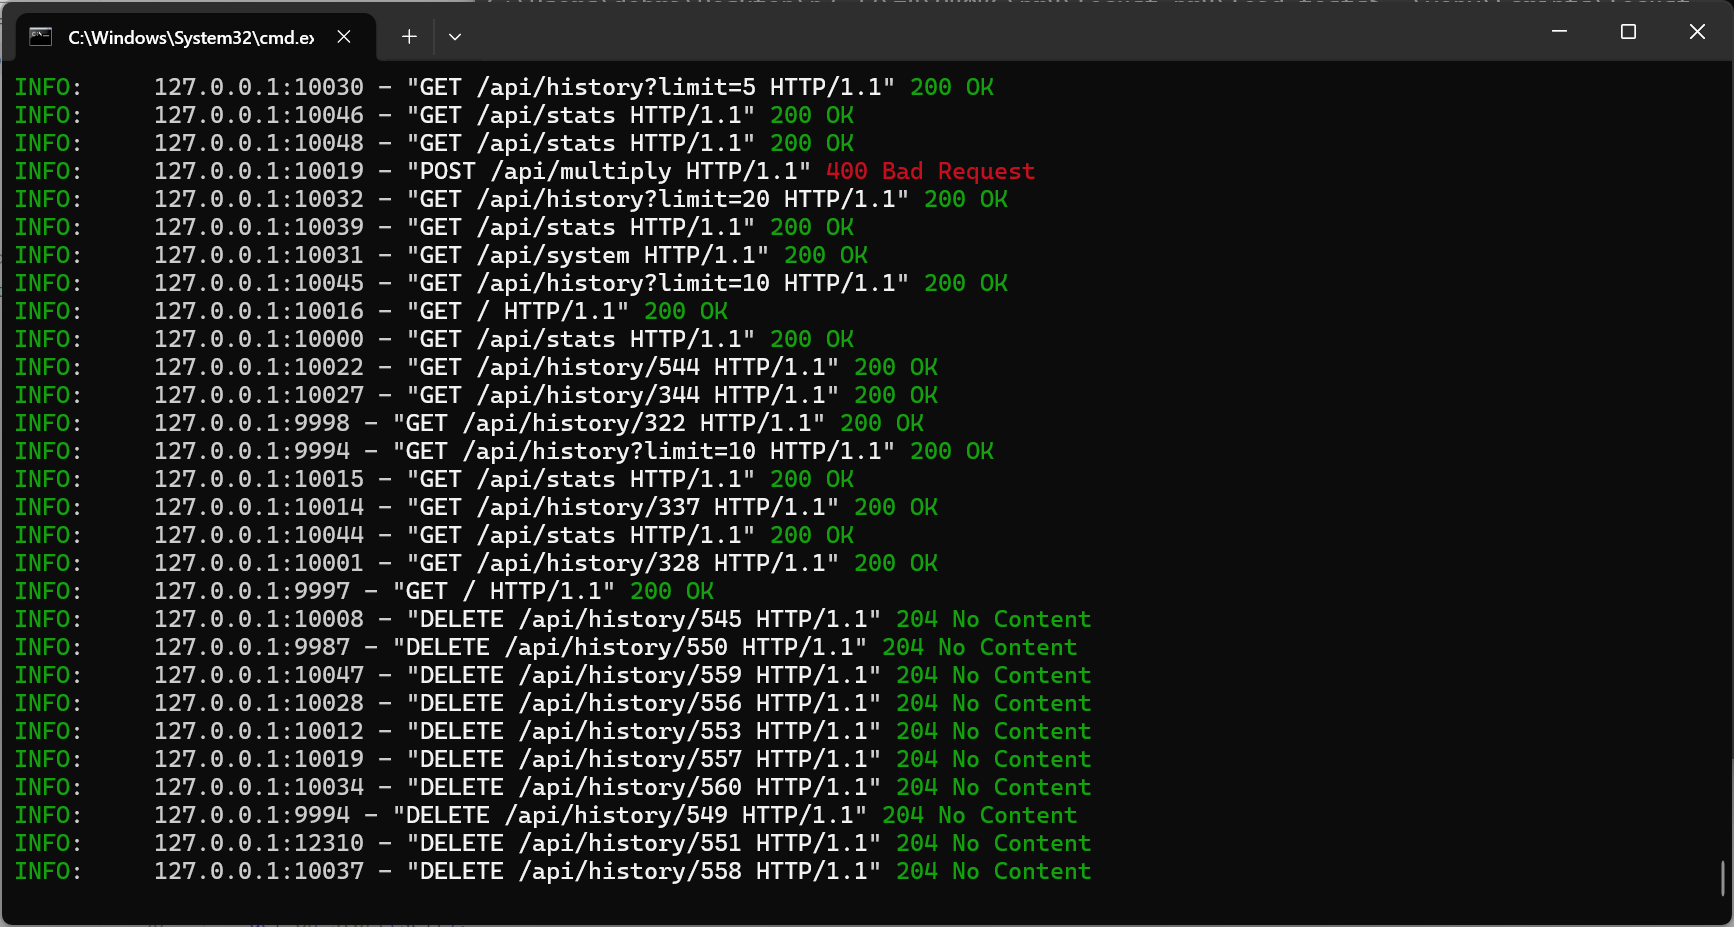
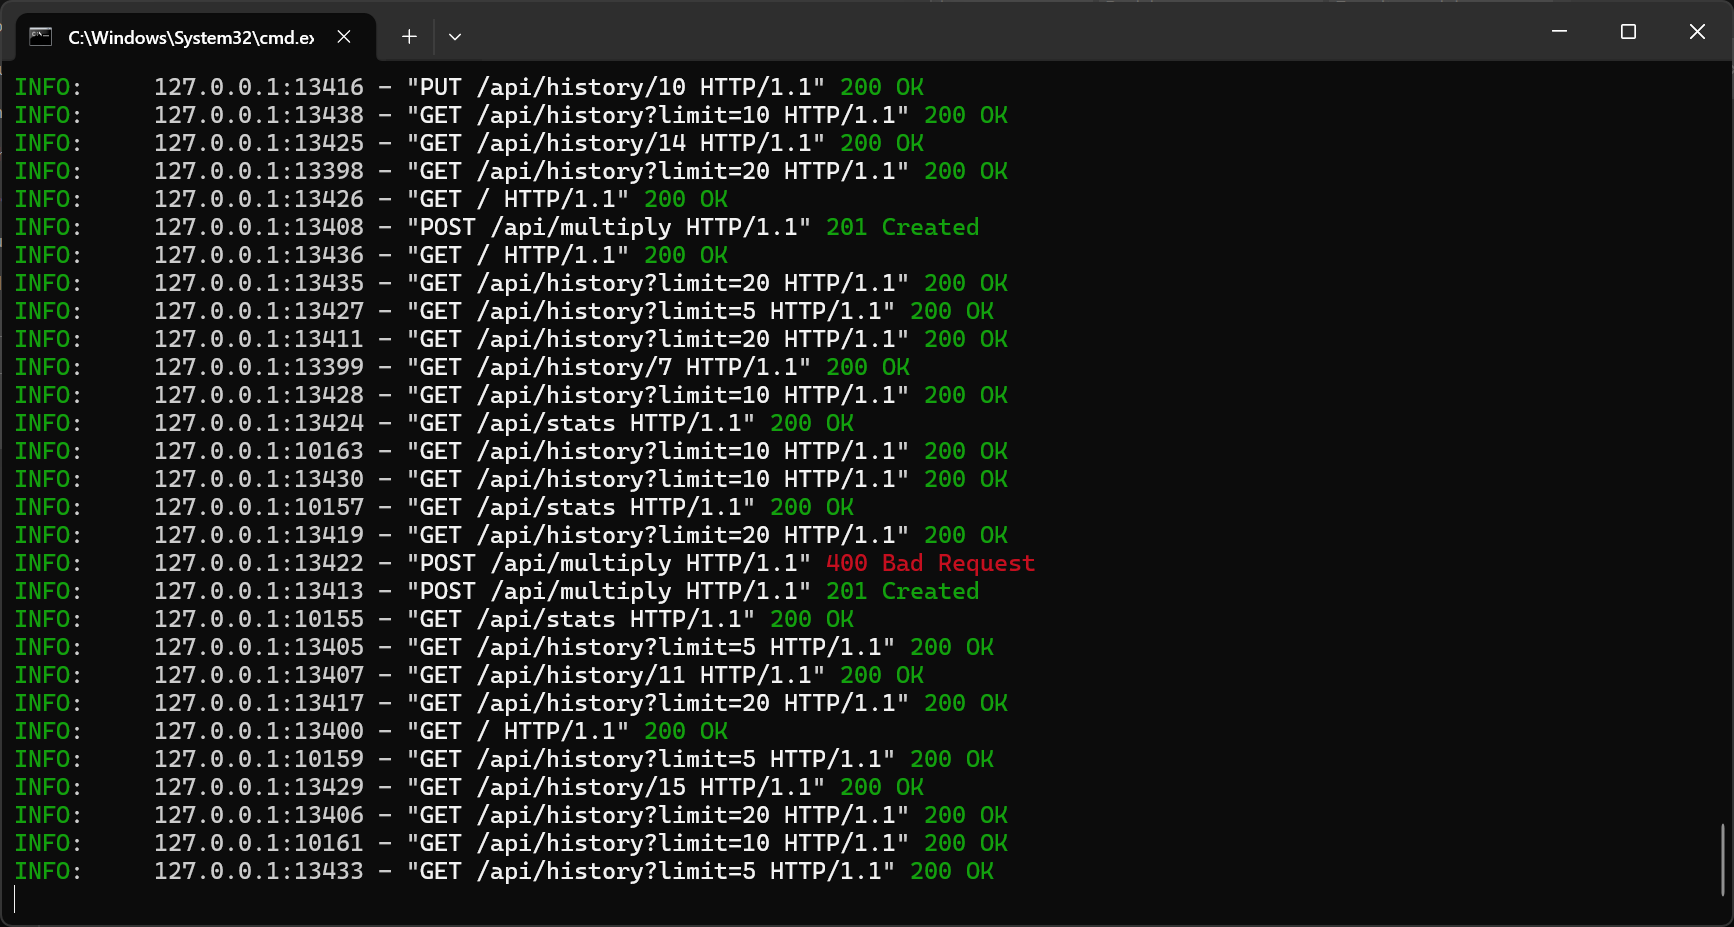
Rename project folder to dabz and retake screenshots from the new path

Changed region(s): [[0.1557, 0.0604, 0.6228, 0.9666], [0.0, 0.8155, 1.0, 1.0], [0.0, 0.0, 0.0311, 0.0302]]

diff --git a/report/tools/build_docx.py b/report/tools/build_docx.py
@@ -89,6 +89,7 @@ image('26_vs_pr5.png', 'модуль pr5/matrix_mp.py с функцией multip
 image('25_vs_api.png', 'обработчик POST /api/multiply в app/main.py: деление строк между процессами как в ПР №5')
 para('Если количество столбцов первой матрицы не равно количеству строк второй, API возвращает код 400 '
      'с тем же текстом ошибки, что и консольная программа ПР №5.')
+image('30_term_server_start.png', 'запуск веб-API командой uvicorn в терминале')
 image('27_term_server.png', 'терминал с запущенным веб-API (uvicorn): журнал запросов во время нагрузочного теста')
 image('01_app.png', 'веб-страница приложения: новый расчёт и история расчётов')
 image('02_swagger.png', 'список запросов API в документации Swagger (/docs)')
@@ -193,7 +194,7 @@ para('GET-запросов выполнено 3706, POST-запросов – 46
 # 10. Git
 para('10. Git-репозиторий.')
 para('Проект (веб-API на базе ПР №5, сценарии Locust, результаты прогона и скриншоты) сохранён '
-     'в Git-репозитории locust_pr8.')
+     'в Git-репозитории dabz.')
 image('29_term_git.png', 'история коммитов и состояние Git-репозитория проекта')
 
 para('в ходе практической работы проект с другой дисциплины (ПР №5 «Умножение двух матриц '

diff --git a/report/tools/start_test.py b/report/tools/start_test.py
@@ -1,0 +1,12 @@
+"""Запускает тест в веб-интерфейсе Locust и останавливает его через N секунд."""
+import sys
+from playwright.sync_api import sync_playwright
+secs = int(sys.argv[1]) if len(sys.argv) > 1 else 40
+with sync_playwright() as p:
+    b = p.chromium.launch(channel='chrome')
+    pg = b.new_page()
+    pg.goto('http://127.0.0.1:5051'); pg.wait_for_timeout(2000)
+    pg.get_by_role('button', name='START').click()
+    pg.wait_for_timeout(secs * 1000)
+    pg.get_by_role('button', name='STOP').click(); pg.wait_for_timeout(2000)
+    b.close()
